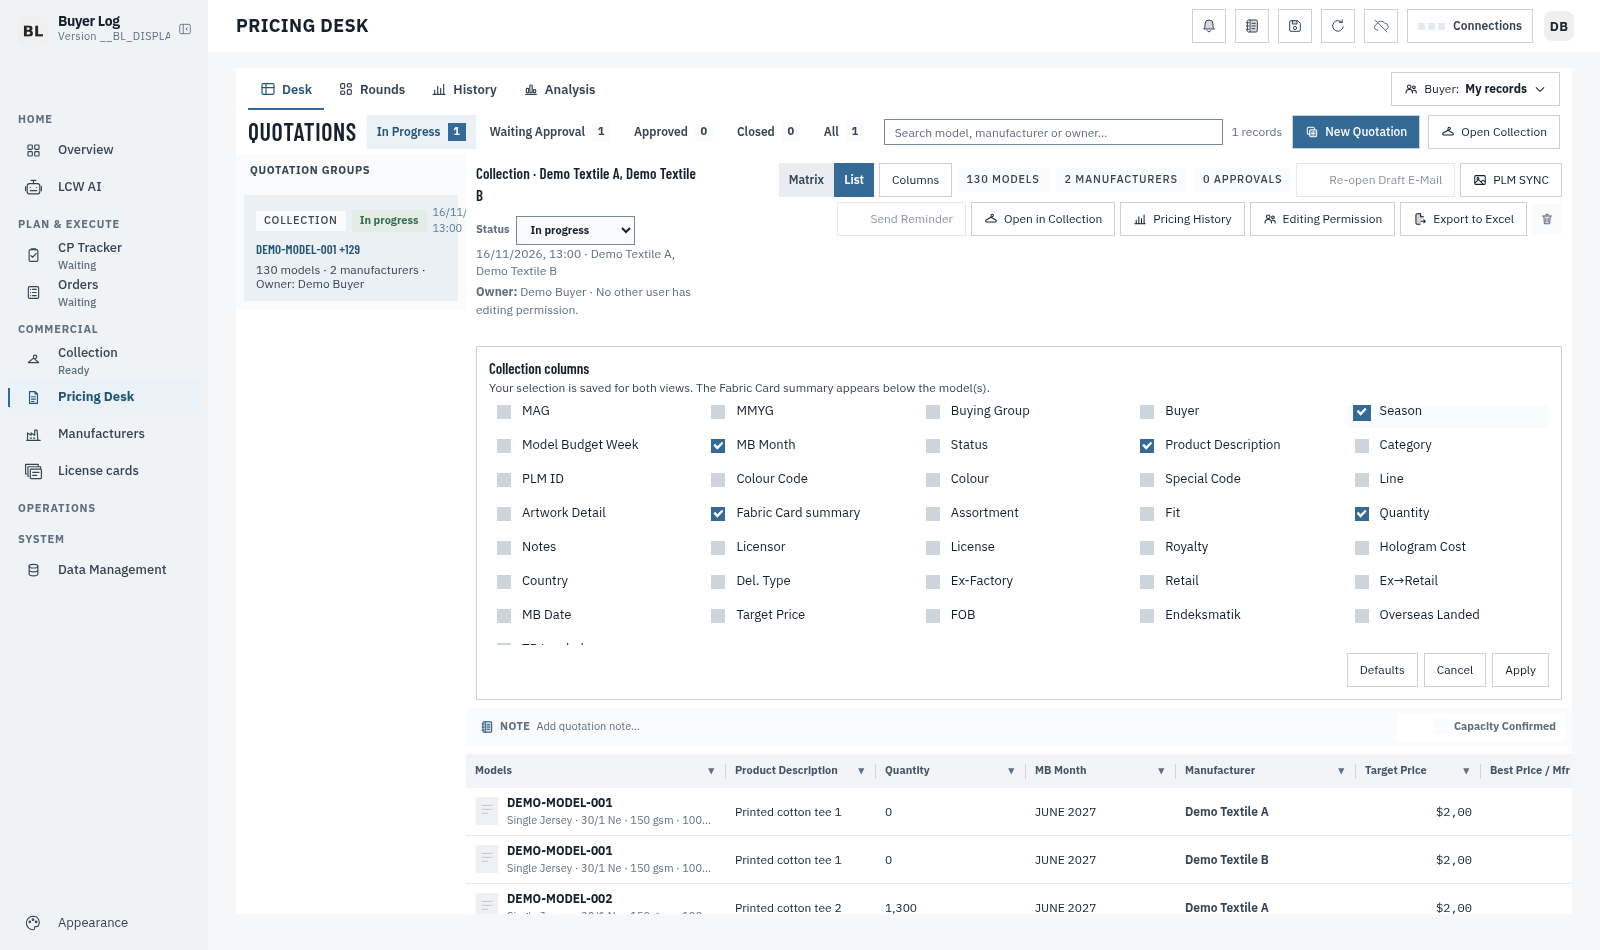
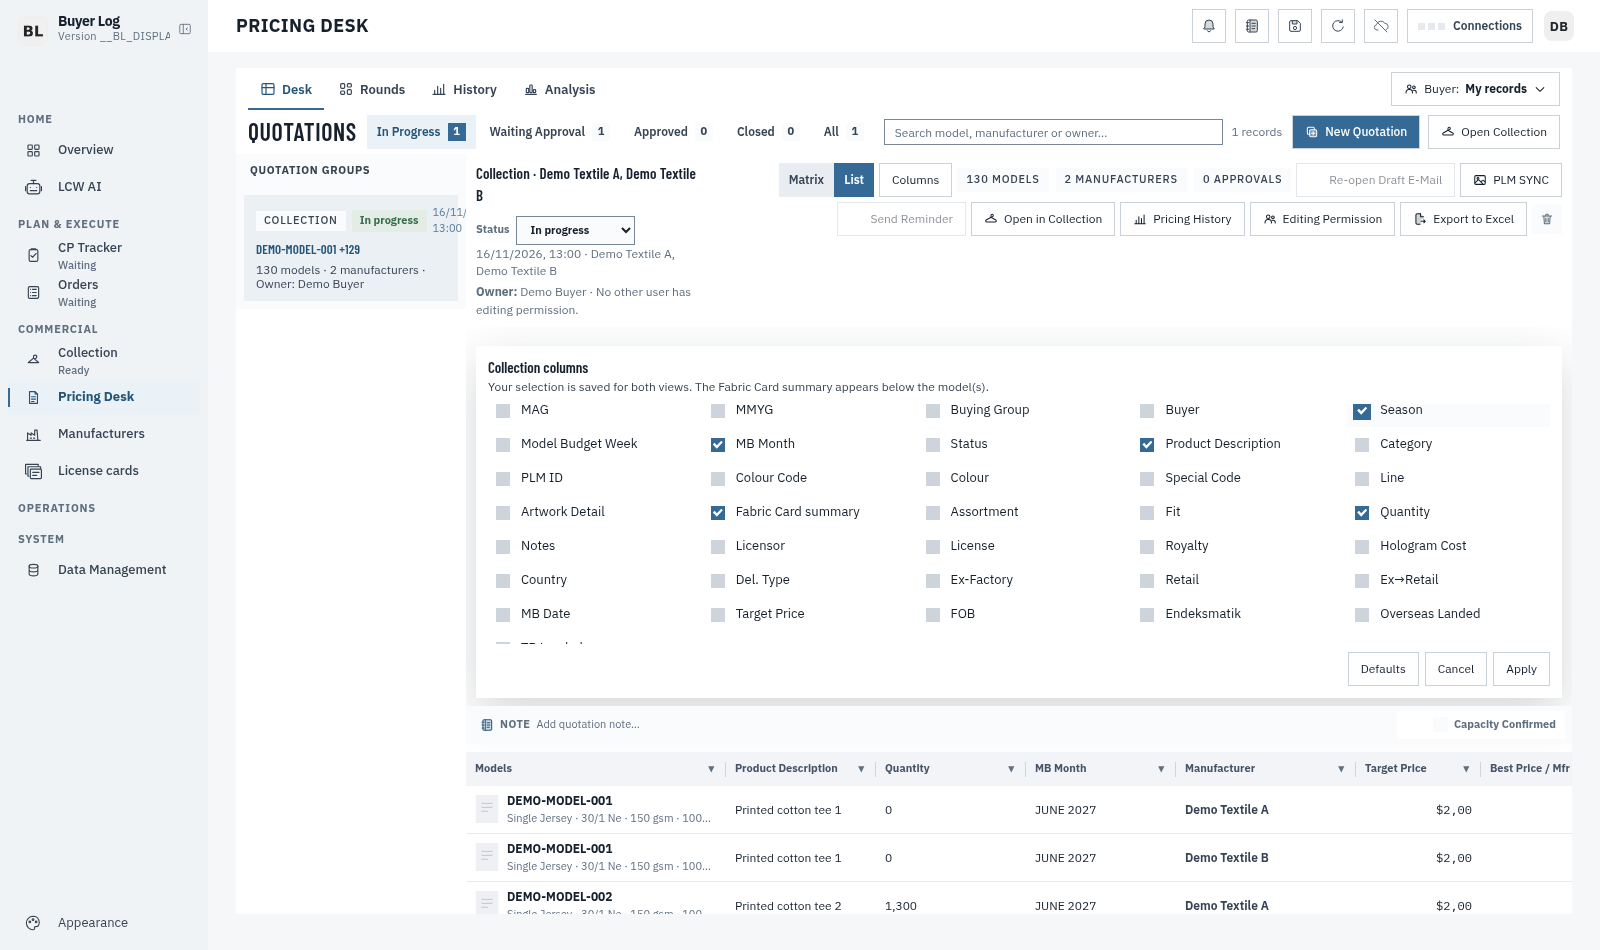
fix(pricing-desk): use shared Manifest appearance for context fields

diff --git a/resources/app/public/ui-components.css b/resources/app/public/ui-components.css
@@ -8937,7 +8937,7 @@ html[data-ui-system="manifest"] .pdLegendOut {background:var(--ui-warning-bg) !i
 }
 html[data-ui-system="manifest"] .pdRoundBadge {color:var(--ui-selected-ink) !important;background:var(--ui-selected) !important;font:700 var(--ui-font-2xs) var(--ui-font-body) !important
 }
-html[data-ui-system="manifest"] .pdBulkPanel,html[data-ui-system="manifest"] .pdRoundPanel,html[data-ui-system="manifest"] .pdImportPanel,html[data-ui-system="manifest"] .pdMfrPanel,html[data-ui-system="manifest"] .pdOptionsPanel {background:var(--ui-surface) !important;box-shadow:var(--ui-shadow-overlay) !important;animation:none !important
+html[data-ui-system="manifest"] .pdBulkPanel,html[data-ui-system="manifest"] .pdRoundPanel,html[data-ui-system="manifest"] .pdImportPanel,html[data-ui-system="manifest"] .pdMfrPanel,html[data-ui-system="manifest"] .pdOptionsPanel,html[data-ui-system="manifest"] .pdColumnsPanel {background:var(--ui-surface) !important;box-shadow:var(--ui-shadow-overlay) !important;animation:none !important
 }
 html[data-ui-system="manifest"] .pdOptHeadRow {font:600 var(--ui-font-2xs)/1.2 var(--ui-font-body) !important;color:var(--ui-text-muted) !important;text-transform:uppercase;letter-spacing:.04em;min-height:20px !important
 }
@@ -8983,9 +8983,9 @@ html[data-ui-system="manifest"] .pdMatrix tbody td,html[data-ui-system="manifest
 }
 html[data-ui-system="manifest"] .pdMatrix tbody tr:hover>td,html[data-ui-system="manifest"] .pdMatrix tbody tr:hover>th {background:var(--ui-row-hover) !important
 }
-html[data-ui-system="manifest"] .pdMatrix .pdTarget,html[data-ui-system="manifest"] .pdMatrix .pdStickyBest,html[data-ui-system="manifest"] .pdMatrix .pdStickyDelta {z-index:var(--ui-z-data);background:var(--ui-surface) !important
+html[data-ui-system="manifest"] .pdMatrix .pdTarget,html[data-ui-system="manifest"] .pdMatrix .pdStickyBest,html[data-ui-system="manifest"] .pdMatrix .pdStickyDelta,html[data-ui-system="manifest"] .pdMatrix .pdSummary {z-index:var(--ui-z-data);background:var(--ui-surface) !important
 }
-html[data-ui-system="manifest"] .pdMatrix thead .pdTarget,html[data-ui-system="manifest"] .pdMatrix thead .pdStickyBest,html[data-ui-system="manifest"] .pdMatrix thead .pdStickyDelta {z-index:var(--ui-z-data);background:var(--ui-header-bg) !important
+html[data-ui-system="manifest"] .pdMatrix thead .pdTarget,html[data-ui-system="manifest"] .pdMatrix thead .pdStickyBest,html[data-ui-system="manifest"] .pdMatrix thead .pdStickyDelta,html[data-ui-system="manifest"] .pdMatrix thead .pdSummary {z-index:var(--ui-z-data);background:var(--ui-header-bg) !important
 }
 html[data-ui-system="manifest"] .pdMfrHead b {color:var(--ui-header-ink) !important
 }
@@ -8993,9 +8993,11 @@ html[data-ui-system="manifest"] .pdMfrHead small {font-size:var(--ui-font-2xs) !
 }
 html[data-ui-system="manifest"] .pdModelText b {font-weight:700 !important
 }
-html[data-ui-system="manifest"] .pdModelText span,html[data-ui-system="manifest"] .pdModelText small {font-size:var(--ui-font-2xs) !important;color:var(--ui-text-secondary) !important
+html[data-ui-system="manifest"] .pdSummary b {font-weight:600 !important
 }
-html[data-ui-system="manifest"] .pdModelText small {color:var(--ui-text-muted) !important
+html[data-ui-system="manifest"] .pdModelText span,html[data-ui-system="manifest"] .pdModelText small,html[data-ui-system="manifest"] .pdSummary small {font-size:var(--ui-font-2xs) !important;color:var(--ui-text-secondary) !important
+}
+html[data-ui-system="manifest"] .pdModelText small,html[data-ui-system="manifest"] .pdSummary small {color:var(--ui-text-muted) !important
 }
 html[data-ui-system="manifest"] .pdTarget {color:var(--ui-text-secondary) !important
 }

diff --git a/resources/app/public/pricing-desk.css b/resources/app/public/pricing-desk.css
@@ -317,12 +317,11 @@ td.kolPriceStripTd:hover .kolManualBtn,td.kolPriceStripTd:focus-within .kolManua
 .kolPsMedian{width:1px;height:10px}
 
 /* Collection context and per-user column selection. */
-.pdMatrix .pdSummary{position:sticky;left:200px;z-index:var(--ui-z-data);background:var(--ui-surface)}
+.pdMatrix .pdSummary{position:sticky;left:200px}
 .pdSummary>span{display:flex;flex-direction:column;gap:2px}
 .pdSummary>span>span{display:flex;align-items:center;justify-content:space-between;gap:6px}
-.pdSummary small{color:var(--ui-text-muted);font-size:var(--ui-font-2xs)}
-.pdSummary b{overflow:hidden;text-overflow:ellipsis;white-space:nowrap;font-weight:600}
+.pdSummary b{overflow:hidden;text-overflow:ellipsis;white-space:nowrap}
 .pdCollectionValue{display:block;overflow:hidden;text-overflow:ellipsis;white-space:nowrap}
-.pdColumnsPanel{display:flex;flex-direction:column;gap:8px;margin:8px 10px;padding:12px;background:var(--ui-surface);border:1px solid var(--ui-group-divider)}
+.pdColumnsPanel{display:flex;flex-direction:column;gap:8px;margin:8px 10px;padding:12px}
 .pdColumnsPanel[hidden]{display:none}
 .pdColumnsList{display:grid;grid-template-columns:repeat(auto-fit,minmax(180px,1fr));max-height:240px;overflow:auto;gap:2px 12px}
